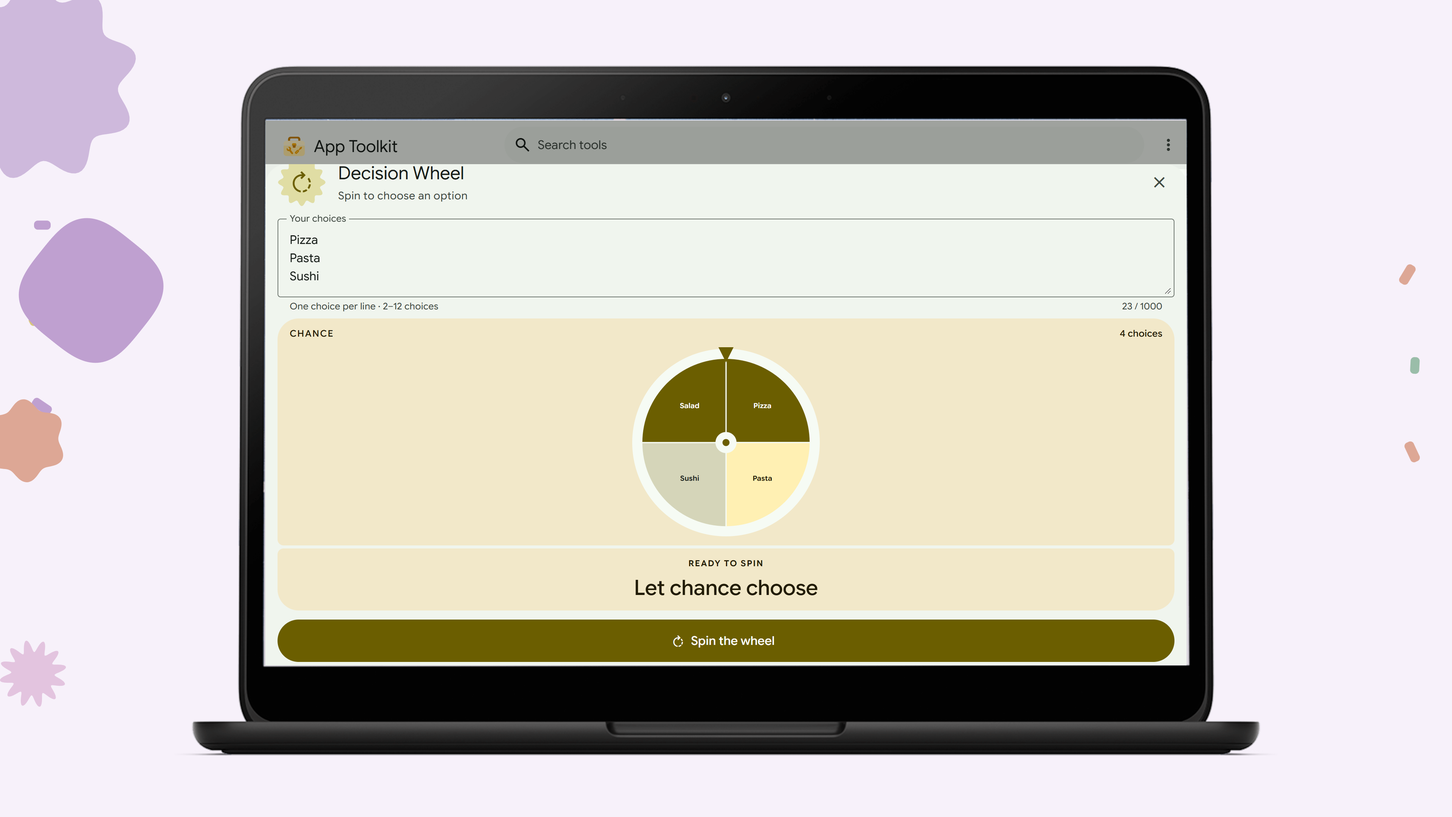
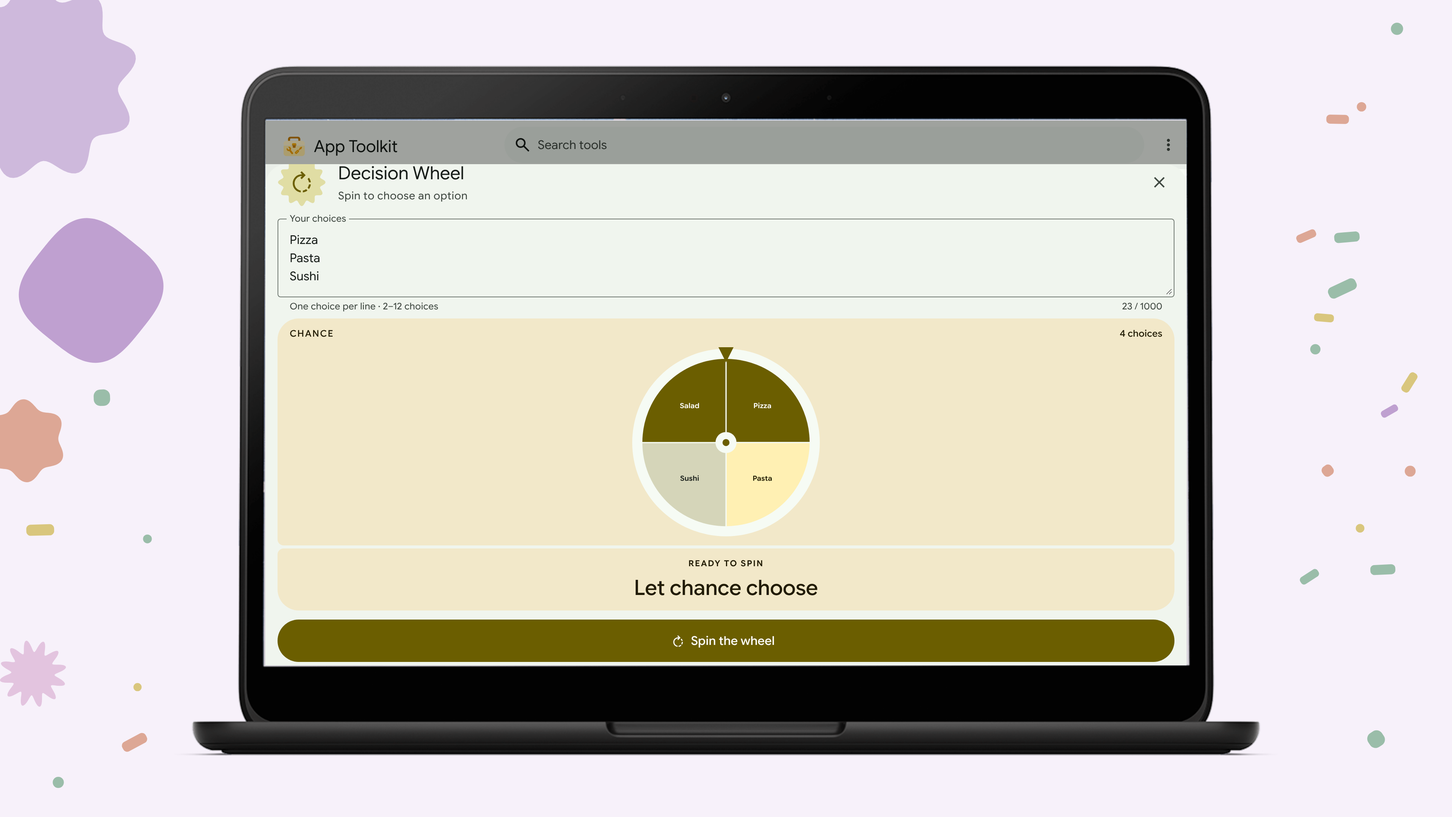
Decision Wheel listing: scatter the confetti across every image
The confetti traced an ellipse around each phone and the ground added
fixed columns at each image's sides, so it read as a line and left the
screenshots empty. A seeded best-candidate scatter now spreads it over
the whole free area of every phone, tablet and desktop screenshot and
the feature graphic: even without rows or rings, gathered loosely around
the device, thinning towards the edges, mixing strips, squares and dots,
and clear of captions, phones and shapes by each piece's own size. The
lilac palette stays, now defined once in src/theme.ts. Re-rendered,
verified (no hard failures), repeatable, audited and re-tagged; the
official icon is unchanged.

Claude-Session: https://claude.ai/code/session_01EEYGaFXbmvKJrEAo9apjWh

diff --git a/marketing/creative/store/google-play/listings/custom/decision-wheel/source/src/FeatureGraphic.tsx b/marketing/creative/store/google-play/listings/custom/decision-wheel/source/src/FeatureGraphic.tsx
@@ -1,19 +1,52 @@
 import React from "react";
-import {AbsoluteFill} from "remotion";
-import {useFonts} from "./LitScreen";
-import {Shape} from "./Shape";
-import {FONT,INK} from "./theme";
-export type Concept="ribbon"|"ripple"|"editorial";
-export const FeatureGraphic:React.FC<{locale:string;concept?:Concept}>=({concept="ribbon"})=>{
-useFonts();const editorial=concept==="editorial",moment=concept==="ripple";const cx=editorial?650:moment?260:820,cy=editorial?-25:moment?390:280,r=editorial?280:moment?290:235;
-return <AbsoluteFill style={{background:"#F7F1FA",fontFamily:FONT,color:INK,overflow:"hidden"}}>
-<Shape name={moment?"flower":"soft_burst"} x={cx-r-70} y={cy-r-70} size={r*2+140} color="#E7D9EF" rotate={12}/>
-<svg width="1024" height="500" style={{position:"absolute",inset:0}}>
-<g transform={`translate(${cx} ${cy}) rotate(-18)`}>{Array.from({length:6},(_,i)=>{const a=(i*60-90)*Math.PI/180,b=((i+1)*60-90)*Math.PI/180;return <path key={i} d={`M 0 0 L ${r*Math.cos(a)} ${r*Math.sin(a)} A ${r} ${r} 0 0 1 ${r*Math.cos(b)} ${r*Math.sin(b)} Z`} fill={["#BFA0D0","#E3C4DF","#DDA795"][i%3]} stroke="#F7F1FA" strokeWidth="5"/>})}<circle r="32" fill="#F7F1FA"/><circle r="10" fill="#684379"/></g>
-<path d={`M ${cx-20} ${cy-r-15} h 40 l -20 38 Z`} fill="#684379"/>
-{[0,1,2,3,4].map(i=><rect key={i} x={560+i*83} y={45+(i%3)*47} width="12" height="27" rx="5" fill={["#BFA0D0","#DDA795","#E9D38A"][i%3]} transform={`rotate(${i*23} ${566+i*83} ${58+(i%3)*47})`}/>)}
-</svg>
-<div style={{position:"absolute",left:moment?510:108,top:editorial?280:145,width:editorial?820:moment?410:500}}>
-<div style={{fontSize:22,fontWeight:600,marginBottom:18,color:"#684379"}}>App Toolkit</div><h1 style={{fontSize:editorial?90:76,lineHeight:1.02,letterSpacing:-3,fontWeight:650,margin:0}}>{editorial?"Spin the Wheel":<>Spin the<br/>Wheel</>}</h1></div>
-</AbsoluteFill>
+import { AbsoluteFill } from "remotion";
+import { useFonts } from "./LitScreen";
+import { Shape } from "./Shape";
+import { Confetti } from "./Confetti";
+import { scatterConfetti } from "./composition/confetti";
+import { FEATURE_FIELD, FONT, INK, PLUM, SHAPE_BEHIND, WHEEL_SEGMENTS } from "./theme";
+
+export type Concept = "ribbon" | "ripple" | "editorial";
+
+/**
+ * The feature graphic: "Spin the Wheel" with App Toolkit small above it, beside a large wheel drawn in the
+ * campaign's lilac, pink and coral, on the campaign's lilac field. Confetti is scattered over the open
+ * space, clear of the type, the wheel and the shape behind it. No device frame, no icon, no claims.
+ */
+export const FeatureGraphic: React.FC<{ locale: string; concept?: Concept }> = ({ concept = "ribbon" }) => {
+  useFonts();
+  const editorial = concept === "editorial", moment = concept === "ripple";
+  const cx = editorial ? 650 : moment ? 260 : 820, cy = editorial ? -25 : moment ? 390 : 280, r = editorial ? 280 : moment ? 290 : 235;
+  const text = { left: moment ? 510 : 108, top: editorial ? 280 : 145, width: editorial ? 820 : moment ? 410 : 500 };
+  // The type's box: the brand line and two lines of 76 px title (one line of 90 px for the editorial concept).
+  const textBox = { left: text.left, top: text.top, right: text.left + (editorial ? 640 : 300), bottom: text.top + 40 + (editorial ? 92 : 156) };
+  const backR = r + 70;
+  const confetti = scatterConfetti({
+    width: 1024, height: 500, seed: 31337, count: 26, margin: 18,
+    focus: { left: cx - r, top: cy - r, right: cx + r, bottom: cy + r },
+    free: (x, y, cr) =>
+      !(x + cr > textBox.left - 34 && x - cr < textBox.right + 34 && y + cr > textBox.top - 34 && y - cr < textBox.bottom + 34) &&
+      Math.hypot(x - cx, y - cy) > backR + cr + 13,
+  });
+  return (
+    <AbsoluteFill style={{ background: FEATURE_FIELD, fontFamily: FONT, color: INK, overflow: "hidden" }}>
+      <Shape name={moment ? "flower" : "soft_burst"} x={cx - backR} y={cy - backR} size={backR * 2} color={SHAPE_BEHIND} rotate={12} />
+      <Confetti pieces={confetti} width={1024} height={500} />
+      <svg width="1024" height="500" style={{ position: "absolute", inset: 0 }}>
+        <g transform={`translate(${cx} ${cy}) rotate(-18)`}>
+          {Array.from({ length: 6 }, (_, i) => {
+            const a = ((i * 60 - 90) * Math.PI) / 180, b = (((i + 1) * 60 - 90) * Math.PI) / 180;
+            return <path key={i} d={`M 0 0 L ${r * Math.cos(a)} ${r * Math.sin(a)} A ${r} ${r} 0 0 1 ${r * Math.cos(b)} ${r * Math.sin(b)} Z`} fill={WHEEL_SEGMENTS[i % 3]} stroke={FEATURE_FIELD} strokeWidth="5" />;
+          })}
+          <circle r="32" fill={FEATURE_FIELD} />
+          <circle r="10" fill={PLUM} />
+        </g>
+        <path d={`M ${cx - 20} ${cy - r - 15} h 40 l -20 38 Z`} fill={PLUM} />
+      </svg>
+      <div style={{ position: "absolute", left: text.left, top: text.top, width: text.width }}>
+        <div style={{ fontSize: 22, fontWeight: 600, marginBottom: 18, color: PLUM }}>App Toolkit</div>
+        <h1 style={{ fontSize: editorial ? 90 : 76, lineHeight: 1.02, letterSpacing: -3, fontWeight: 650, margin: 0 }}>{editorial ? "Spin the Wheel" : <>Spin the<br />Wheel</>}</h1>
+      </div>
+    </AbsoluteFill>
+  );
 };

diff --git a/marketing/creative/store/google-play/listings/custom/decision-wheel/source/src/composition/confetti.ts b/marketing/creative/store/google-play/listings/custom/decision-wheel/source/src/composition/confetti.ts
@@ -1,0 +1,45 @@
+/**
+ * Confetti scattered over a canvas, deterministic for a seed. Mitchell's best-candidate sampling spreads the
+ * pieces evenly without a pattern (blue noise): each new piece is the candidate farthest from the pieces
+ * already placed, so there are no clumps, rows or rings. Candidates are kept more often near the subject
+ * (`focus`) and less often far from it, so the scatter gathers loosely around it and thins towards the
+ * edges. Pieces mix strips, squares and dots, sizes and angles, in the campaign's colours.
+ */
+import type { Box } from "./geometry.ts";
+import { CONFETTI } from "../theme.ts";
+
+export type Confetto = { x: number; y: number; w: number; h: number; rotate: number; color: string; kind: "strip" | "square" | "dot" };
+
+export const scatterConfetti = (o: {
+  width: number; height: number; seed: number; count: number; focus: Box;
+  /** True where a piece of radius r may sit. */
+  free: (x: number, y: number, r: number) => boolean;
+  /** Margin kept from the canvas edges. */
+  margin?: number;
+}): Confetto[] => {
+  let s = o.seed >>> 0 || 1;
+  const rand = () => ((s = (Math.imul(s, 1664525) + 1013904223) >>> 0) / 4294967296);
+  const margin = o.margin ?? 21, f = o.focus;
+  const away = (x: number, y: number) => Math.hypot(Math.max(f.left - x, 0, x - f.right), Math.max(f.top - y, 0, y - f.bottom));
+  const reach = Math.max(o.width, o.height) * 0.45;
+  const out: Confetto[] = [];
+  for (let tries = 0; out.length < o.count && tries < o.count * 40; tries++) {
+    // The piece is chosen first, so its own radius decides where it fits.
+    const kind = (["strip", "strip", "strip", "square", "dot", "dot"] as const)[Math.floor(rand() * 6)];
+    const size = 0.75 + rand() * 0.6;
+    const [w, h] = kind === "strip" ? [12 * size, 30 * size] : kind === "square" ? [17 * size, 17 * size] : [14 * size, 14 * size];
+    const r = Math.hypot(w, h) / 2;
+    let best: { x: number; y: number; d: number } | undefined;
+    for (let c = 0; c < 14; c++) {
+      const x = margin + r + rand() * (o.width - 2 * (margin + r)), y = margin + r + rand() * (o.height - 2 * (margin + r));
+      // Denser near the subject: keep with probability 1 up close, falling to 0.3 far away.
+      if (rand() > 1 - 0.7 * Math.min(away(x, y) / reach, 1)) continue;
+      if (!o.free(x, y, r)) continue;
+      const d = Math.min(Infinity, ...out.map((p) => Math.hypot(p.x - x, p.y - y)));
+      if (!best || d > best.d) best = { x, y, d };
+    }
+    if (!best || best.d < 34) continue;
+    out.push({ x: best.x, y: best.y, w, h, rotate: rand() * 360, color: CONFETTI[Math.floor(rand() * CONFETTI.length)], kind });
+  }
+  return out;
+};

diff --git a/marketing/creative/store/google-play/listings/custom/decision-wheel/source/src/composition/compose.ts b/marketing/creative/store/google-play/listings/custom/decision-wheel/source/src/composition/compose.ts
@@ -3,15 +3,18 @@
  * shapes placed around them, and the validation report. Shared by the render (src/Shot.tsx) and the
  * verifier (scripts/verify.mjs), so both judge the same composition.
  */
-import { CAPTION, H, W } from "./geometry.ts";
+import { CAPTION, H, SPACE, TEXT_CLEARANCE, W, distanceTo, grow, inside } from "./geometry.ts";
 import type { Pose, ScreenUi } from "./geometry.ts";
-import { bubbles, placeConfetti, placeShapes, soundArcs } from "./effects.ts";
+import { bubbles, placeShapes, soundArcs } from "./effects.ts";
+import { scatterConfetti } from "./confetti.ts";
 import type { Arc, Bubble } from "./effects.ts";
 import { ribbonLines } from "./ribbons.ts";
 import { SHOTS, measureAll } from "./shots.ts";
 import { validate } from "./validate.ts";
 
 export type Layout = { shots: { id: string; poses: Pose[] }[] };
+/** How much confetti each screenshot carries: most on the hero and the result, calmer elsewhere. */
+const CONFETTI_COUNT = [46, 52, 38, 36, 38, 40];
 
 export const composeShot = (index: number, panels: number, layout: Layout, ui: Record<string, ScreenUi>) => {
   const spec = SHOTS[index];
@@ -25,7 +28,16 @@ export const composeShot = (index: number, panels: number, layout: Layout, ui: R
   const edges = { left: index === 0, right: index === panels - 1 };
   const effects: Bubble[] = [...arcs.flatMap((a) => a.pts).map(([x, y]) => [x, y, 4] as Bubble), ...spheres];
   const shapes = placeShapes(spec.shapes, phones, block, effects, ribbons, edges);
-  const confetti = placeConfetti(phones, block, shapes, index);
+  // Confetti scattered over the free space: clear of the caption's text zone, every phone and every shape.
+  const zone = grow(block, TEXT_CLEARANCE);
+  const focus = { left: Math.min(...phones.map((m) => m.box.left)), top: Math.min(...phones.map((m) => m.box.top)), right: Math.max(...phones.map((m) => m.box.right)), bottom: Math.max(...phones.map((m) => m.box.bottom)) };
+  const confetti = scatterConfetti({
+    width: W, height: H, seed: 7919 * (index + 1), count: CONFETTI_COUNT[index] ?? 40, focus,
+    free: (x, y, r) =>
+      !(x + r > zone.left && x - r < zone.right && y + r > zone.top && y - r < zone.bottom) &&
+      phones.every((m) => !inside(m.visible, [x, y]) && distanceTo(m.visible, [x, y]) > r + SPACE.s) &&
+      shapes.every((p) => Math.hypot(p.x + p.size / 2 - x, p.y + p.size / 2 - y) > p.size / 2 + r + SPACE.xs),
+  });
   effects.push(...confetti.map(p => [p.x,p.y,Math.hypot(p.w,p.h)/2] as Bubble));
   const report = validate(spec, phones, shapes, effects, ribbons, edges);
   return { spec, poses, phones, arcs, spheres, shapes, confetti, report };

diff --git a/marketing/creative/store/google-play/listings/custom/decision-wheel/source/src/composition/shots.ts b/marketing/creative/store/google-play/listings/custom/decision-wheel/source/src/composition/shots.ts
@@ -1,16 +1,17 @@
 import {CAPTION,GOLDEN,H,SPACE,W,centre,fitPose,measure} from "./geometry.ts";
 import type {CaptionAt,Measured,Pose,ScreenUi} from "./geometry.ts";
 import type {ShapePlan} from "./effects.ts";
+import { BEHIND } from "../theme.ts";
 export type Terms=Record<string,number>;
 export type ShotSpec={id:string;intent:string;caption:CaptionAt;screens:string[];effects?:"sound";shapes:ShapePlan;candidates:(ui:Record<string,ScreenUi>)=>Iterable<Pose[]>;hard?:(ms:Measured[])=>string[];score:(ms:Measured[])=>Terms};
 const sq=(n:number)=>n*n;
 type Direction={id:string;caption:CaptionAt;width:number;pitch:number;yaw:number;roll:number;focus:string;guideY:number;shapes:ShapePlan};
 export const DIRECTIONS:Direction[]=[
- {id:"wheel",caption:"top",width:690,pitch:0,yaw:-6,roll:-1,focus:"wheel",guideY:GOLDEN.y[1],shapes:{seed:11,small:1,big:{at:()=>[660,1140],max:900,min:700,name:"flower",rotate:-12,color:"#E3C4DF"}}},
- {id:"result",caption:"bottom",width:690,pitch:6,yaw:14,roll:2,focus:"result",guideY:GOLDEN.y[1],shapes:{seed:23,offset:3,small:2,big:{at:()=>[310,GOLDEN.y[0]],max:620,min:500,name:"sunny",rotate:18,color:"#DDA795"}}},
+ {id:"wheel",caption:"top",width:690,pitch:0,yaw:-6,roll:-1,focus:"wheel",guideY:GOLDEN.y[1],shapes:{seed:11,small:1,big:{at:()=>[660,1140],max:900,min:700,name:"flower",rotate:-12,color:BEHIND.wheel}}},
+ {id:"result",caption:"bottom",width:690,pitch:6,yaw:14,roll:2,focus:"result",guideY:GOLDEN.y[1],shapes:{seed:23,offset:3,small:2,big:{at:()=>[310,GOLDEN.y[0]],max:620,min:500,name:"sunny",rotate:18,color:BEHIND.result}}},
  {id:"choices",caption:"top",width:650,pitch:0,yaw:0,roll:0,focus:"wheel",guideY:GOLDEN.y[1],shapes:{seed:37,offset:2,small:2}},
  {id:"number",caption:"top",width:640,pitch:-2,yaw:-10,roll:-1,focus:"result",guideY:GOLDEN.y[1],shapes:{seed:47,offset:4,small:2}},
- {id:"coin",caption:"top",width:660,pitch:3,yaw:12,roll:-2,focus:"coin",guideY:GOLDEN.y[1],shapes:{seed:59,offset:5,small:1,big:{at:()=>[430,1230],max:700,min:550,name:"pill",rotate:-20,color:"#E7D9EF"}}},
+ {id:"coin",caption:"top",width:660,pitch:3,yaw:12,roll:-2,focus:"coin",guideY:GOLDEN.y[1],shapes:{seed:59,offset:5,small:1,big:{at:()=>[430,1230],max:700,min:550,name:"pill",rotate:-20,color:BEHIND.coin}}},
  {id:"dice",caption:"bottom",width:640,pitch:6,yaw:-8,roll:1,focus:"dice",guideY:GOLDEN.y[0],shapes:{seed:71,offset:6,small:3}}
 ];
 export const SHOTS:ShotSpec[]=DIRECTIONS.map(d=>({

diff --git a/marketing/creative/store/google-play/listings/custom/decision-wheel/source/src/theme.ts b/marketing/creative/store/google-play/listings/custom/decision-wheel/source/src/theme.ts
@@ -1,6 +1,18 @@
-export const INK="#35233E",PILL="#684379",ON_PILL="#FFF7FC";
-export const FIELD:[string,string]=["#F7F1FA","#F7F1FA"],FIELD_DEEP:[string,string]=["#E7D9EF","#E7D9EF"];
-export const SHAPE_TONES=["#BFA0D0","#E3C4DF","#DDA795","#CEB9DC"],SHAPE_BEHIND="#E7D9EF";
-export const SHEET_BLUE="#684379",SHEET_BLUE_BRIGHT="#BFA0D0",SHEET_BLUE_CONTAINER="#E7D9EF";
-export const RIBBON_STOPS=["#E7D9EF","#FFF7FC","#BFA0D0","#CEB9DC"],RIBBON_EDGE="#BFA0D0",BUBBLE_TINT="#E7D9EF";
-export const FONT="'Google Sans Flex', sans-serif",PALETTE="captured";
+// The Decision Wheel campaign's palette: a soft lilac field with plum ink and pill, and lilac, pink and
+// coral accents. The app's UI keeps its own captured colours.
+export const INK = "#35233E", PILL = "#684379", ON_PILL = "#FFF7FC";
+/** Plum: the pill, the feature graphic's brand line, wheel pointer and hub. */
+export const PLUM = PILL;
+export const FIELD: [string, string] = ["#F7F1FA", "#F7F1FA"], FIELD_DEEP: [string, string] = ["#E7D9EF", "#E7D9EF"];
+/** The feature graphic's ground: the screenshots' field. */
+export const FEATURE_FIELD = FIELD[0];
+export const SHAPE_TONES = ["#BFA0D0", "#E3C4DF", "#DDA795", "#CEB9DC"], SHAPE_BEHIND = "#E7D9EF";
+/** The large shape behind each featured phone. */
+export const BEHIND = { wheel: "#E3C4DF", result: "#DDA795", coin: "#E7D9EF" };
+/** Confetti colours. */
+export const CONFETTI = ["#BFA0D0", "#DDA795", "#D9C67D", "#9ABDA9"];
+/** The feature graphic's wheel segments. */
+export const WHEEL_SEGMENTS = ["#BFA0D0", "#E3C4DF", "#DDA795"];
+export const SHEET_BLUE = "#684379", SHEET_BLUE_BRIGHT = "#BFA0D0", SHEET_BLUE_CONTAINER = "#E7D9EF";
+export const RIBBON_STOPS = ["#E7D9EF", "#FFF7FC", "#BFA0D0", "#CEB9DC"], RIBBON_EDGE = "#BFA0D0", BUBBLE_TINT = "#E7D9EF";
+export const FONT = "'Google Sans Flex', sans-serif", PALETTE = "captured";

diff --git a/marketing/creative/store/google-play/listings/custom/decision-wheel/source/src/composition/effects.ts b/marketing/creative/store/google-play/listings/custom/decision-wheel/source/src/composition/effects.ts
@@ -118,22 +118,3 @@ export const placeShapes = (plan: ShapePlan, phones: Obstacle[], caption: Box | 
 
 /** The hero's big shape sat SPACE.xxl in from its right edge, on the upper golden line divided by φ. */
 export const HERO_BIG_AT = (): Pt => [W - SPACE.xxl, GOLDEN.y[0] / PHI];
-
-
-export type Confetto={x:number;y:number;w:number;h:number;rotate:number;color:string};
-/** Confetti follows elliptical bands around the projected phone, clear of its silhouette, shapes and caption. */
-export const placeConfetti=(phones:Measured[],caption:Box,shapes:Piece[],index:number):Confetto[]=>{
- const m=phones[0],rx=(m.box.right-m.box.left)/2+SPACE.xl,ry=(m.box.bottom-m.box.top)/2+SPACE.l;
- const out:Confetto[]=[],limit=[16,34,12,10,12,14][index]??12;
- for(let k=0;k<288&&out.length<limit;k++){
-  const a=(k*137.507764+index*31)*Math.PI/180,band=[1,1.12,.92][Math.floor(k/96)];
-  const x=m.centroid[0]+rx*band*Math.cos(a),y=m.centroid[1]+ry*band*Math.sin(a),w=13+(k%3)*5,h=21+(k%2)*8,r=Math.hypot(w,h)/2;
-  if(x-r<SPACE.s||x+r>W-SPACE.s||y-r<SPACE.s||y+r>H-SPACE.s)continue;
-  if(x+r>caption.left-SPACE.m&&x-r<caption.right+SPACE.m&&y+r>caption.top-SPACE.m&&y-r<caption.bottom+SPACE.m)continue;
-  if(phones.some(p=>inside(p.visible,[x,y])||distanceTo(p.visible,[x,y])<r+SPACE.s))continue;
-  if(shapes.some(p=>Math.hypot(p.x+p.size/2-x,p.y+p.size/2-y)<p.size/2+r+SPACE.s))continue;
-  if(out.some(p=>Math.hypot(p.x-x,p.y-y)<SPACE.l))continue;
-  out.push({x,y,w,h,rotate:a*180/Math.PI+90,color:["#BFA0D0","#DDA795","#D9C67D","#9ABDA9"][k%4]});
- }
- return out;
-};

diff --git a/marketing/creative/store/google-play/listings/custom/decision-wheel/source/src/composition/wide.ts b/marketing/creative/store/google-play/listings/custom/decision-wheel/source/src/composition/wide.ts
@@ -7,6 +7,7 @@
 import { SPACE, areaCentroid, bbox, inside, rectPoly } from "./geometry.ts";
 import type { Box, Pt, ScreenUi } from "./geometry.ts";
 import { placeShapes } from "./effects.ts";
+import { scatterConfetti } from "./confetti.ts";
 import type { Piece, ShapePlan } from "./effects.ts";
 import { ribbonLines } from "./ribbons.ts";
 import type { Report } from "./validate.ts";
@@ -33,8 +34,13 @@ export const composeWide = (kind: Kind, index: number, screens: string[], ui: Re
   const ribbons = ribbonLines(panels * CANVAS.w, CANVAS.h, panels).map((r) => ({ ...r, pts: r.pts.map(([x, y]) => [x - index * CANVAS.w, y] as [number, number]) }));
   const edges = { left: index === 0, right: index === panels - 1 };
   const shapes = placeShapes(set.shapes, [{ visible: device }], null, [], ribbons, edges, CANVAS);
+  const confetti = scatterConfetti({
+    width: CANVAS.w, height: CANVAS.h, seed: 104729 * (index + 1) + (kind === "desktop" ? 17 : 0), count: kind === "desktop" ? 22 : 30, focus: box,
+    free: (x, y, r) => !(x + r + SPACE.s > box.left && x - r - SPACE.s < box.right && y + r + SPACE.s > box.top && y - r - SPACE.s < box.bottom) &&
+      shapes.every((p) => Math.hypot(p.x + p.size / 2 - x, p.y + p.size / 2 - y) > p.size / 2 + r + SPACE.xs),
+  });
   const report = validateWide(device, critical, shapes, ribbons, edges);
-  return { kind, screen, box, device, critical, secondary, shapes, report };
+  return { kind, screen, box, device, critical, secondary, shapes, confetti, report };
 };
 
 /**

diff --git a/marketing/creative/store/google-play/listings/custom/decision-wheel/source/src/Wide.tsx b/marketing/creative/store/google-play/listings/custom/decision-wheel/source/src/Wide.tsx
@@ -4,6 +4,7 @@ import { LitScreen } from "./LitScreen";
 import { SCREENS, SCROLL } from "./screens";
 import { STRINGS } from "./strings";
 import { Glass } from "./Glass";
+import { Confetti } from "./Confetti";
 import { Shape } from "./Shape";
 import ui from "./composition/ui.json";
 import type { Pt, ScreenUi } from "./composition/geometry";
@@ -29,6 +30,7 @@ export const WideStrip: React.FC<{ locale: string; kind: Kind; only?: number; de
         return (
           <div key={s.id} style={{ position: "absolute", left: i * CANVAS.w, top: 0, width: CANVAS.w, height: CANVAS.h }}>
             {g.shapes.map((p, k) => <Shape key={k} name={p.name} x={p.x} y={p.y} size={p.size} color={p.color} rotate={p.rotate} />)}
+            <Confetti pieces={g.confetti} width={CANVAS.w} height={CANVAS.h} />
             <div style={{ position: "absolute", left: g.box.left, top: g.box.top, zIndex: 1 }}>
               <LitScreen id={SCREENS[s.id][0]} state={SCREENS[s.id][1]} window={set.window} scroll={SCROLL[s.id]} />
             </div>

diff --git a/marketing/creative/store/google-play/listings/custom/decision-wheel/source/src/Glass.tsx b/marketing/creative/store/google-play/listings/custom/decision-wheel/source/src/Glass.tsx
@@ -3,8 +3,5 @@ import {FIELD} from "./theme";
 export type TextBox={left:number;top:number;right:number;bottom:number};
 export const Glass:React.FC<{width:number;height:number;panels:number;id?:string;text?:TextBox[];ribbons?:boolean;field?:[string,string]}>=({width,height,panels,field=FIELD})=><svg aria-hidden width={width} height={height} style={{position:"absolute",inset:0}}>
 <rect width={width} height={height} fill={field[0]}/>
-{height!==1920&&Array.from({length:panels},(_,i)=>{const pw=width/panels,n=i===1?16:i===0?6:4;return <g key={i} transform={`translate(${i*pw} 0)`}>
-{Array.from({length:n},(_,k)=>{const x=k%2?pw-65:45,y=height*(.27+.055*k),a=k*31+i*19;return <rect key={k} x={x} y={y} width={k%3?13:22} height={k%3?28:12} rx="5" fill={["#BFA0D0","#DDA795","#D9C67D","#9ABDA9"][k%4]} transform={`rotate(${a} ${x+10} ${y+12})`}/>})}
-</g>})}
 </svg>;
 export const SoundBubbles:React.FC<{arcs:{pts:number[][];ring:number}[];bubbles:number[][];width:number;height:number}>=()=>null;

diff --git a/marketing/creative/store/google-play/listings/custom/decision-wheel/source/src/Shot.tsx b/marketing/creative/store/google-play/listings/custom/decision-wheel/source/src/Shot.tsx
@@ -1,4 +1,5 @@
 import React from "react";
+import { Confetti } from "./Confetti";
 import { LitScreen } from "./LitScreen";
 import { SCROLL, SCREENS } from "./screens";
 import { SoundBubbles } from "./Glass";
@@ -24,7 +25,7 @@ export const Shot: React.FC<{ index: number; panels: number; debug?: boolean }> 
   return (
     <>
       {g.shapes.map((p, i) => <Shape key={i} name={p.name} x={p.x} y={p.y} size={p.size} color={p.color} rotate={p.rotate} />)}
-      <svg width={W} height={H} style={{position:"absolute",inset:0}} aria-hidden>{g.confetti.map((p,i)=><rect key={i} x={p.x-p.w/2} y={p.y-p.h/2} width={p.w} height={p.h} rx="5" fill={p.color} transform={`rotate(${p.rotate} ${p.x} ${p.y})`}/>)}</svg>
+      <Confetti pieces={g.confetti} width={W} height={H} />
       {g.poses.map((pose, i) => {
         const [id, state] = SCREENS[g.spec.screens[i]];
         return (

diff --git a/marketing/creative/store/google-play/listings/custom/decision-wheel/source/src/Confetti.tsx b/marketing/creative/store/google-play/listings/custom/decision-wheel/source/src/Confetti.tsx
@@ -1,0 +1,11 @@
+import React from "react";
+import type { Confetto } from "./composition/confetti";
+
+/** Confetti pieces: rounded strips and squares, and dots. */
+export const Confetti: React.FC<{ pieces: Confetto[]; width: number; height: number }> = ({ pieces, width, height }) => (
+  <svg aria-hidden width={width} height={height} style={{ position: "absolute", inset: 0, pointerEvents: "none" }}>
+    {pieces.map((p, i) => p.kind === "dot"
+      ? <circle key={i} cx={p.x} cy={p.y} r={p.w / 2} fill={p.color} />
+      : <rect key={i} x={p.x - p.w / 2} y={p.y - p.h / 2} width={p.w} height={p.h} rx={Math.min(p.w, p.h) * 0.4} fill={p.color} transform={`rotate(${p.rotate.toFixed(1)} ${p.x.toFixed(1)} ${p.y.toFixed(1)})`} />)}
+  </svg>
+);

diff --git a/marketing/creative/store/google-play/listings/custom/decision-wheel/README.md b/marketing/creative/store/google-play/listings/custom/decision-wheel/README.md
@@ -20,7 +20,7 @@ The keywords describe intent, not measured demand; see keyword-review.md for the
 
 ## Creative direction
 
-Six phone screenshots on a soft lilac field with coral and lilac MaterialShapes and rounded confetti, captions in a deep plum with a lilac pill. The app keeps its own captured colours. Phones are Material-Next's porcelain 3D Pixel 9 Pro XL, each in a gentle solved pose, centred, with the caption above or below as the composition needs. Every image shows a different screen or state:
+Six phone screenshots on a soft lilac field with coral and lilac MaterialShapes and confetti scattered across each image, captions in a deep plum with a lilac pill. The app keeps its own captured colours. Phones are Material-Next's porcelain 3D Pixel 9 Pro XL, each in a gentle solved pose, centred, with the caption above or below as the composition needs. Every image shows a different screen or state:
 
 1. Spin the wheel, let chance decide: the wheel ready with four food choices.
 2. One spin, one random pick: six activities, settled on Music.
@@ -29,7 +29,7 @@ Six phone screenshots on a soft lilac field with coral and lilac MaterialShapes 
 5. Heads or tails, let it flip: Coin Flip settled on Tails.
 6. Roll the dice, make a choice: Dice Roll showing five.
 
-Tablet and desktop screenshots show the app's own large-screen layouts on the Pixel 9 Pro Fold and the Pixelbook Go, centred at true size with no captions, as Play asks. The feature graphic sets "Spin the Wheel" with App Toolkit small above it beside a large drawn wheel in the campaign's colours, running off the right edge; it has no device frame, no icon and no claims.
+Tablet and desktop screenshots show the app's own large-screen layouts on the Pixel 9 Pro Fold and the Pixelbook Go, centred at true size with no captions, as Play asks. The feature graphic sets "Spin the Wheel" with App Toolkit small above it beside a large drawn wheel in the campaign's colours, running off the right edge, with confetti scattered over the open space; it has no device frame, no icon and no claims.
 
 States, the composition system, its hard rules and preferences are described in source/README.md; review/ holds the contact sheets, the verification report, the package audit and the repeatability check.
 
